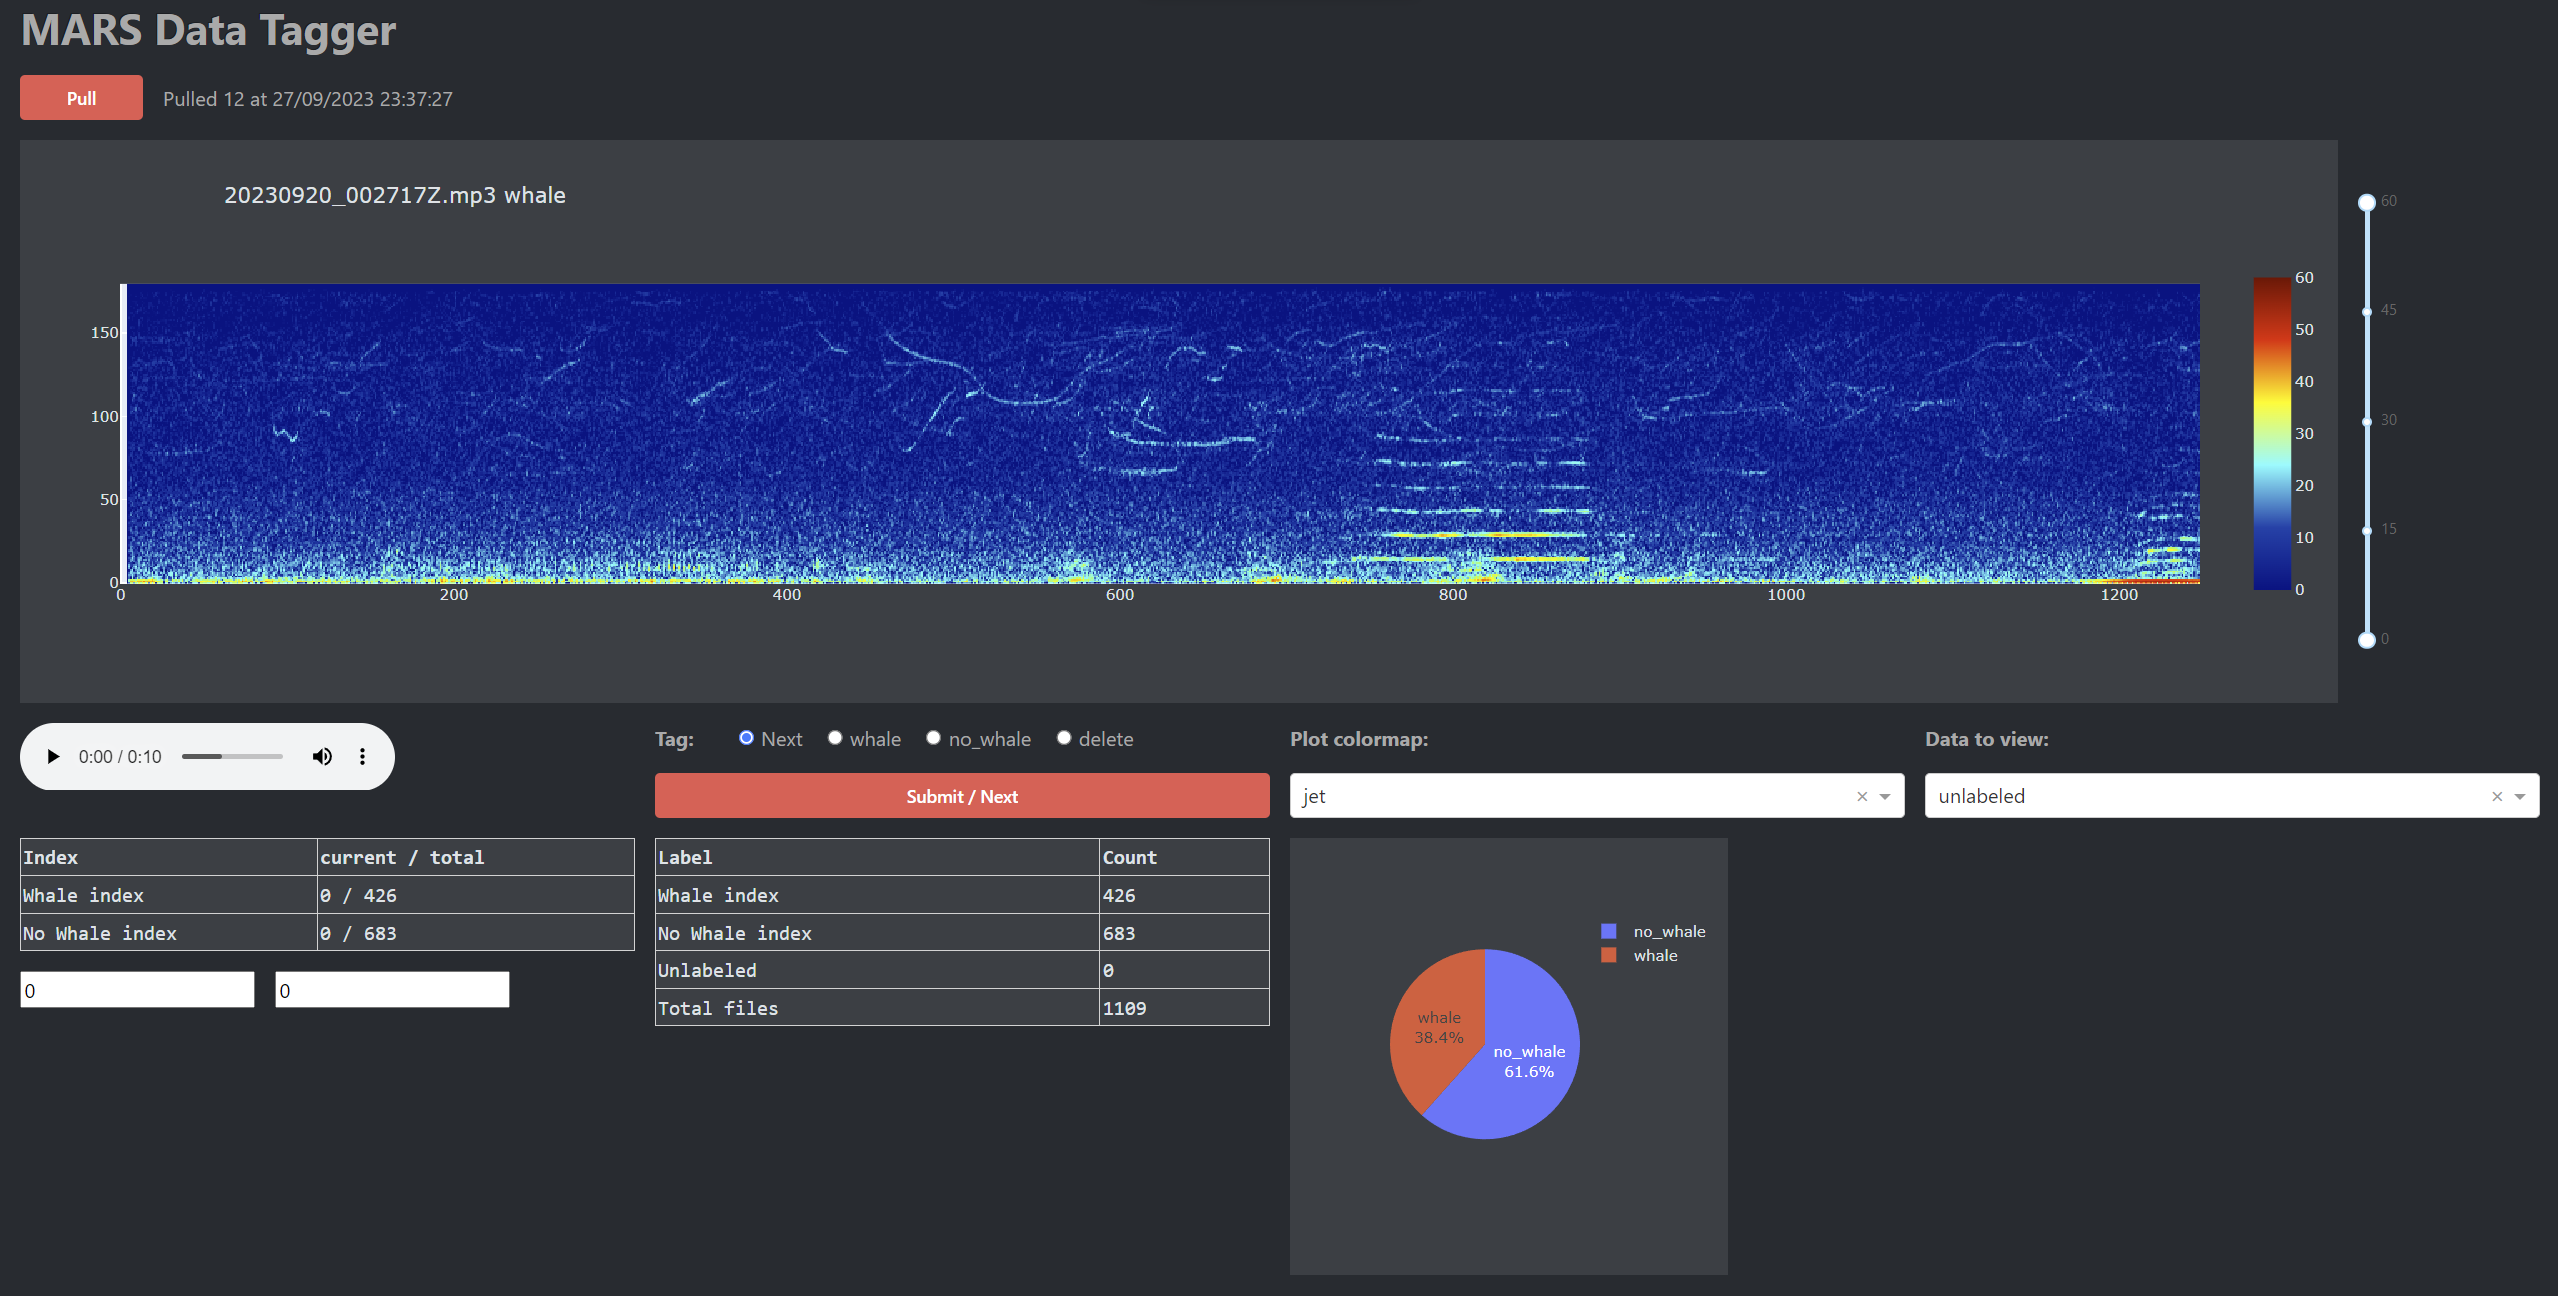
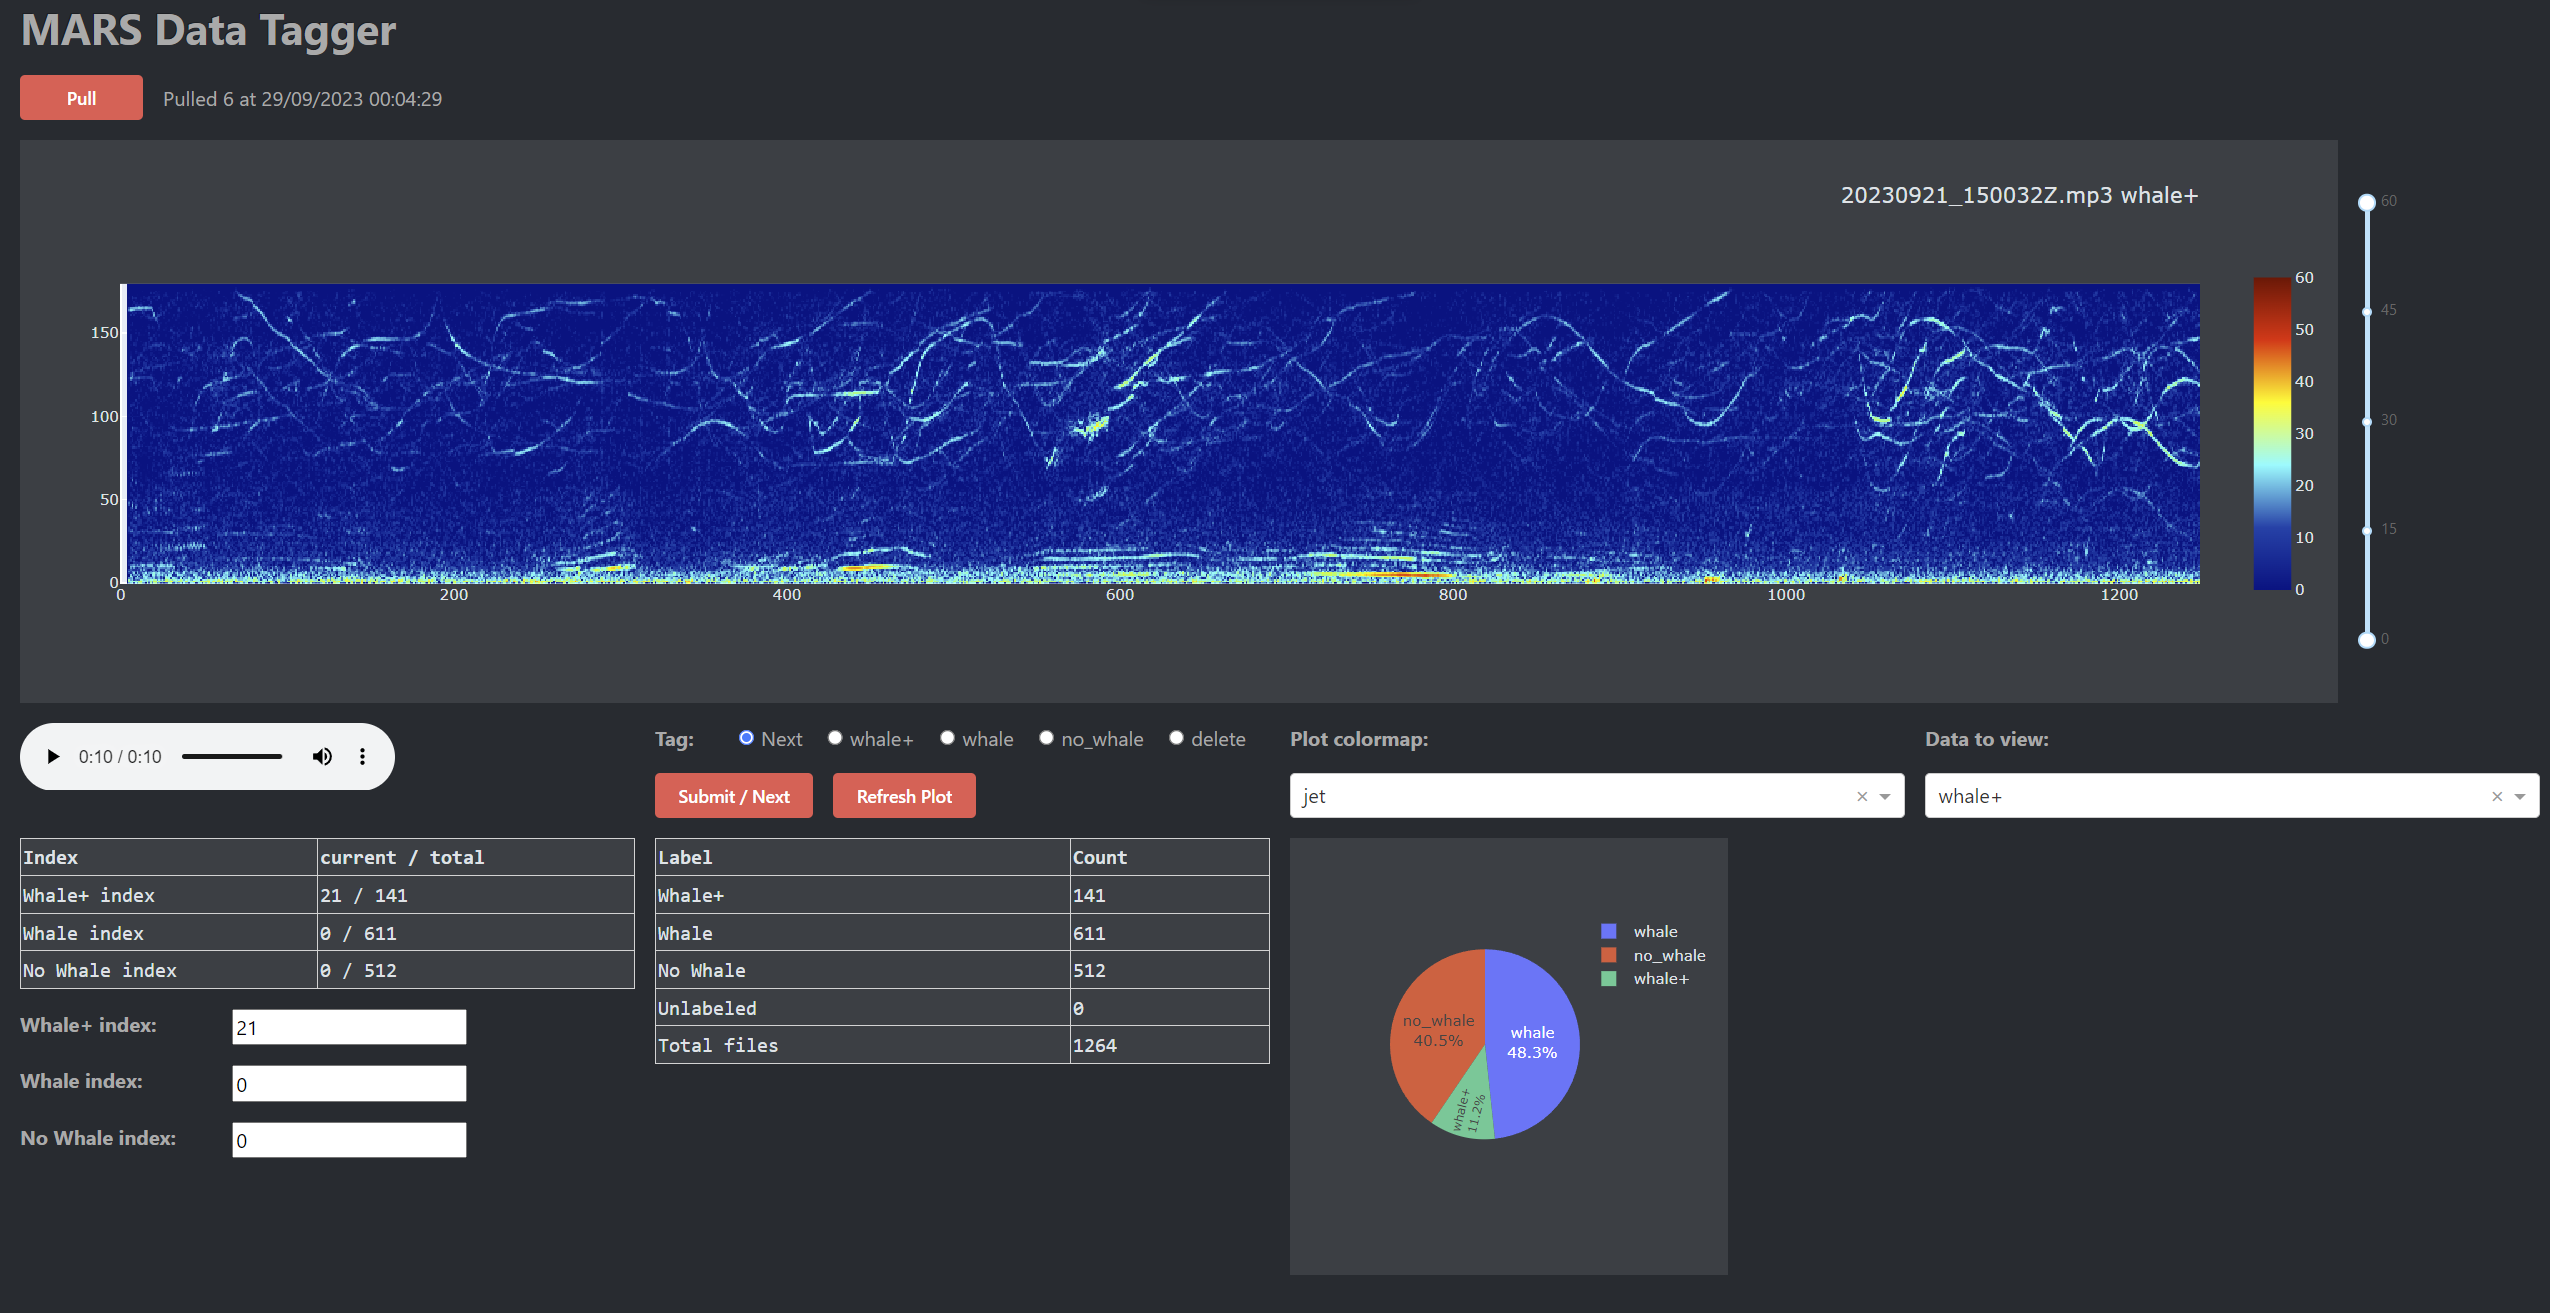
added whale+ label for excelent SNR clips

diff --git a/MARS-data-tagger/app.py b/MARS-data-tagger/app.py
@@ -18,17 +18,21 @@ background_callback_manager = DiskcacheManager(cache)
 ## plot colorscale options
 colorscales = px.colors.named_colorscales()
 initial_file = os.listdir('assets/data/')[0]
+data_dd_options = ['unlabeled', 'whale+', 'whale', 'no_whale']
 
 ## Table initialization
 stats_totals_cols = [{'name' : 'Label', 'id' : 'Label'}, 
                      {'name' : 'Count', 'id' : 'Count'}]
-stats_totals = [{'Label': 'Whale index', 'Count': 0},
-                {'Label': 'No Whale index', 'Count':  0},
+stats_totals = [{'Label': 'Whale+', 'Count': 0},
+                {'Label': 'Whale', 'Count': 0},
+                {'Label': 'No Whale', 'Count':  0},
                 {'Label': 'Unlabeled', 'Count':  0},
                 {'Label': 'Total files', 'Count': 0}]
 stats_idx_cols = [{'name' : 'Index', 'id' : 'Index'}, 
                   {'name' : 'current / total', 'id' : 'current / total'}]
-stats_idx = [{'Index': 'Whale index', 'current / total': "0 / 0"},
+stats_idx = [{'Index': 'Whale+ index', 'current / total': "0 / 0"},
+             {'Index': 'Whale index', 'current / total': "0 / 0"},
+             {'Index': 'No Whale index', 'current / total':  "0 / 0"},
              {'Index': 'No Whale index', 'current / total':  "0 / 0"}]
 
 
@@ -48,7 +52,7 @@ app.layout = dmc.Container([
             ]),
             html.Div(),
             html.Div(),
-            html.Div(id='next'),
+            html.Div(id='next', children=''),
         ], cols=4),
         dmc.Group([         ## Graph
             dcc.Graph(id='graph-content', 
@@ -57,20 +61,23 @@ app.layout = dmc.Container([
         ]),
         dmc.SimpleGrid([    ## Controls and options
             dmc.Stack([
-                html.Audio(id='audio-control', controls=True),
+                html.Audio(id='audio-control', controls=True, autoPlay=True),
             ]),
             dmc.Stack([
                 dmc.Group([
                     html.B('Tag:'),
                     dcc.RadioItems(id='label-radio', 
-                                options=['Next', 'whale', 'no_whale', 'delete'], 
+                                options=['Next', 'whale+', 'whale', 'no_whale', 'delete'], 
                                 value='Next',
                                 inline=True,
                                 # labelStyle={'margin-right': "20px"},
                                 inputStyle={'margin-right': "5px",
                                             'margin-left': "20px"}),
                 ]),
-                dmc.Button('Submit / Next', id='submit-btn', n_clicks=0, color='red'),
+                dmc.Group([
+                    dmc.Button('Submit / Next', id='submit-btn', n_clicks=0, color='red'),
+                    dmc.Button("Refresh Plot", id='refresh-btn', n_clicks=0, color="red",),
+                ]),
             ]),
             dmc.Stack([     ## statistics
                 html.B('Plot colormap:'),
@@ -81,7 +88,7 @@ app.layout = dmc.Container([
             dmc.Stack([
                 html.B('Data to view:'),
                 dcc.Dropdown(id='label-dd', 
-                             options=['unlabeled', 'no_whale', 'whale'], 
+                             options=data_dd_options, 
                              value='unlabeled'),
             ]),
         ], cols=4),
@@ -95,9 +102,31 @@ app.layout = dmc.Container([
                                              'color': "#dee2e6"},
                                  style_header={'fontWeight': 'bold'},
                                  style_data={}),
-                dmc.Group([
-                    dcc.Input(id="whale-inpt", type="number", debounce=True, value=0),
-                    dcc.Input(id="nowhale-inpt", type="number", debounce=True, value=0),
+                dmc.Stack([
+                    dmc.Grid([
+                        dmc.Col([
+                            html.B('Whale+ index:'),
+                        ], span=4),
+                        dmc.Col([
+                            dcc.Input(id="whale+-inpt", type="number", debounce=True, value=0),
+                        ], span=1),
+                    ]),
+                    dmc.Grid([
+                        dmc.Col([
+                            html.B('Whale index:'),
+                        ], span=4),
+                        dmc.Col([
+                            dcc.Input(id="whale-inpt", type="number", debounce=True, value=0),
+                        ], span=1),
+                    ]),
+                    dmc.Grid([
+                        dmc.Col([
+                            html.B('No Whale index:'),
+                        ], span=4),
+                        dmc.Col([
+                            dcc.Input(id="nowhale-inpt", type="number", debounce=True, value=0),
+                        ], span=1),
+                    ]),
                 ]),
             ]),
             dmc.Stack([
@@ -110,14 +139,14 @@ app.layout = dmc.Container([
                                     style_header={'fontWeight': 'bold'}),
             ]),
             dcc.Graph(id='stats-pie'),
-            html.Div(),
+            html.Div(id='debug'),
         ], cols=4),
     ], spacing='md'),
 
     html.Div([  # storage / hidden
-        html.Div(id='filepath', children=initial_file, hidden=True),
-        html.Div(id='last-saved', hidden=True),
-        html.Div(id='iter-state', children='{"whale": 0, "no_whale": 0}', hidden=True)
+        html.Div(id='filepath', children=initial_file),
+        html.Div(id='last-saved'),
+        html.Div(id='iter-state', children='{"whale+": 0, "whale": 0, "no_whale": 0}')
     ], hidden=True),
 ], fluid=True)
 
@@ -125,37 +154,46 @@ app.layout = dmc.Container([
 @callback(
     Output('iter-state', 'children'),
     Output('filepath', 'children'),
+    Output("whale+-inpt", "value"),
     Output("whale-inpt", "value"),
     Output("nowhale-inpt", "value"),
     Input('label-dd', 'value'),
     Input('next', 'children'), # dummy signal
+    Input("whale+-inpt", "value"),
     Input("whale-inpt", "value"),
     Input("nowhale-inpt", "value"),
     State('iter-state', 'children'))
-def get_file(label, next, whale_inpt, nwhale_inpt, iter_state):
+def get_file(lable_dd, next, whalep_inpt, whale_inpt, nwhale_inpt, iter_state):
     df = pd.read_json('recordings.json')
     state = json.loads(iter_state)
-    
-    if ctx.triggered_id == 'whale-inpt' or ctx.triggered_id == 'nowhale-inpt':
+    inpt = ctx.triggered_id
+    if inpt == 'whale-inpt' or inpt == 'nowhale-inpt' or inpt == 'whale+-inpt':
+        state['whale+'] = max(whalep_inpt - 1, 0)
         state['whale'] = max(whale_inpt - 1, 0)
         state['no_whale'] = max(nwhale_inpt - 1, 0)
+
+    if inpt == 'next' and lable_dd != 'unlabeled': # relabling file
+        updated = next.split(' ')[-1] # get the label
+        if updated != 'Next':
+            state[lable_dd] -= 1 # roll back to the previous index
     
-    if label == 'unlabeled':
-        try:
+    if lable_dd == 'unlabeled':
+        try:        # show first unlabeled file
             filepath = df[df['label'].isna()].iloc[0]
         except:     # error: show the first whale
             filepath = df[df['label'] == 'whale'].iloc[0]
-    else:
-        idx = int(state[label])
+    else:   # viewing previously labled data
+        idx = int(state[lable_dd])
         try:
-            filepath = df[df['label'] == label].iloc[idx]
-            state[label] = idx + 1
+            filepath = df[df['label'] == lable_dd].iloc[idx]
+            state[lable_dd] = idx + 1
         except:     # loop back to the front
-            filepath = df[df['label'] == label].iloc[0]
-            state[label] = 0
-        whale_inpt = state['whale']
-        nwhale_inpt = state['no_whale']
-    return json.dumps(state), filepath.to_json(), whale_inpt, nwhale_inpt
+            filepath = df[df['label'] == lable_dd].iloc[0]
+            state[lable_dd] = 0
+
+    
+
+    return json.dumps(state), filepath.to_json(), state['whale+'], state['whale'], state['no_whale']
 
 
 @callback(
@@ -164,9 +202,10 @@ def get_file(label, next, whale_inpt, nwhale_inpt, iter_state):
     Input('filepath', 'children'),
     Input("color-dropdown", "value"),
     Input('thresh-slider', 'value'),
+    Input('refresh-btn', 'n_clicks'),
     manager=background_callback_manager,
     )
-def update_plot(filepath, scale, thresh):
+def update_plot(filepath, scale, thresh, refresh):
     filepath = json.loads(filepath)
     if ctx.triggered_id != None:
         clip = MarsClip(filepath['filename'])
@@ -178,7 +217,7 @@ def update_plot(filepath, scale, thresh):
                         zmin=thresh[0],
                         zmax=thresh[1],
                         color_continuous_scale=scale)
-        fig.update_layout(paper_bgcolor="#3a3f44", font_color="#dee2e6", title_xref='paper', title_yref='paper')
+        fig.update_layout(paper_bgcolor="#3a3f44", font_color="#dee2e6", title_xref='paper', title_yref='paper', title_x=1)
         fpath = clip.get_filepath()
         return fig, fpath
     else:
@@ -196,17 +235,18 @@ def submit(click, radio, filepath):
     df = pd.read_json('recordings.json')
     filepath = json.loads(filepath)
     if ctx.triggered_id == 'submit-btn':
-        if radio == 'whale':
+        if radio == 'whale+':
+            df.loc[df['filename'] == filepath['filename'], 'label'] = 'whale+'
+        elif radio == 'whale':
             df.loc[df['filename'] == filepath['filename'], 'label'] = 'whale'
         elif radio == 'no_whale':
             df.loc[df['filename'] == filepath['filename'], 'label'] = 'no_whale' 
         elif radio == 'delete':
             print(f"dropping {filepath['filename']}")
             df.drop(df.loc[df['filename'] == filepath['filename']].index, inplace=True)
-        else: # None
+        else: # Next
             pass
         df.to_json('recordings.json')
-    
     return f"{filepath['filename']} marked {radio}"
 
 
@@ -229,17 +269,18 @@ def update_stats(next, iter_state):
                       autosize=False, 
                       width=350,
                       height=350)
+    num_whalep = df[df['label'] == 'whale+'].__len__()
     num_whale = df[df['label'] == 'whale'].__len__()
     num_nowhale = df[df['label'] == 'no_whale'].__len__()
 
-    stats_totals = [{'Label': 'Whale index', 'Count': num_whale},
-                    {'Label': 'No Whale index', 'Count': num_nowhale},
+    stats_totals = [{'Label': 'Whale+', 'Count': num_whalep},
+                    {'Label': 'Whale', 'Count': num_whale},
+                    {'Label': 'No Whale', 'Count': num_nowhale},
                     {'Label': 'Unlabeled', 'Count':  df['label'].isna().sum()},
                     {'Label': 'Total files', 'Count': df.__len__()}]
-    stats_index = [{'Index': 'Whale index', 'current / total': f"{iter_state['whale']} / {num_whale}"},
+    stats_index = [{'Index': 'Whale+ index', 'current / total': f"{iter_state['whale+']} / {num_whalep}"},
+                   {'Index': 'Whale index', 'current / total': f"{iter_state['whale']} / {num_whale}"},
                    {'Index': 'No Whale index', 'current / total':  f"{iter_state['no_whale']} / {num_nowhale}"}]
-
-
     return fig, stats_totals, stats_index
 
 
